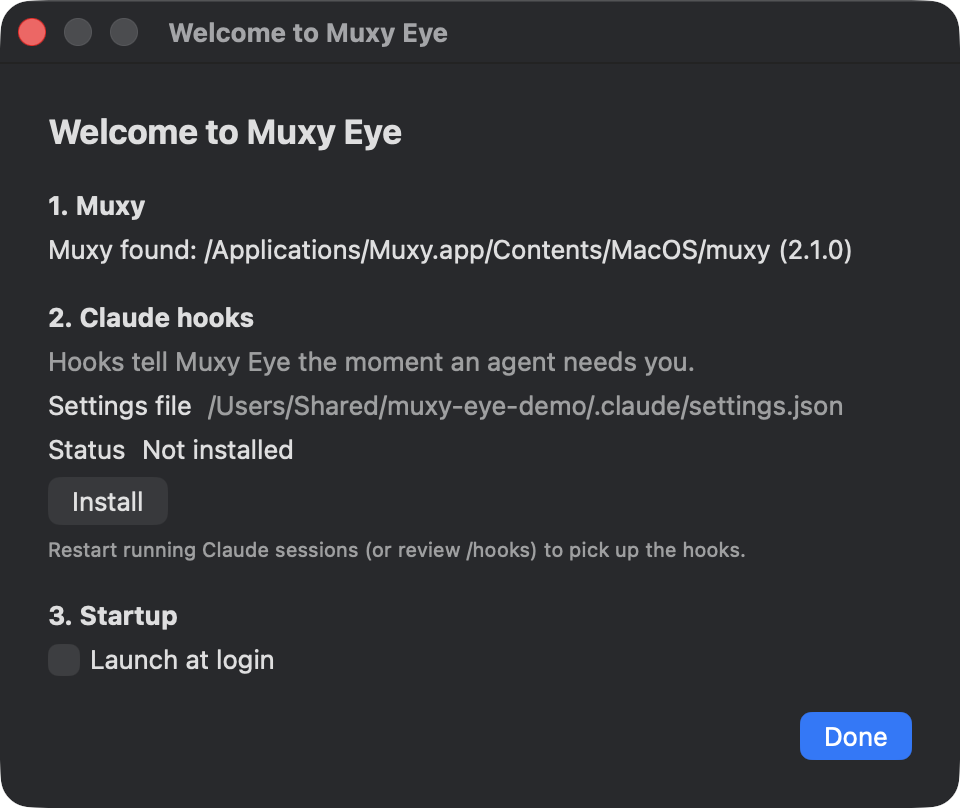
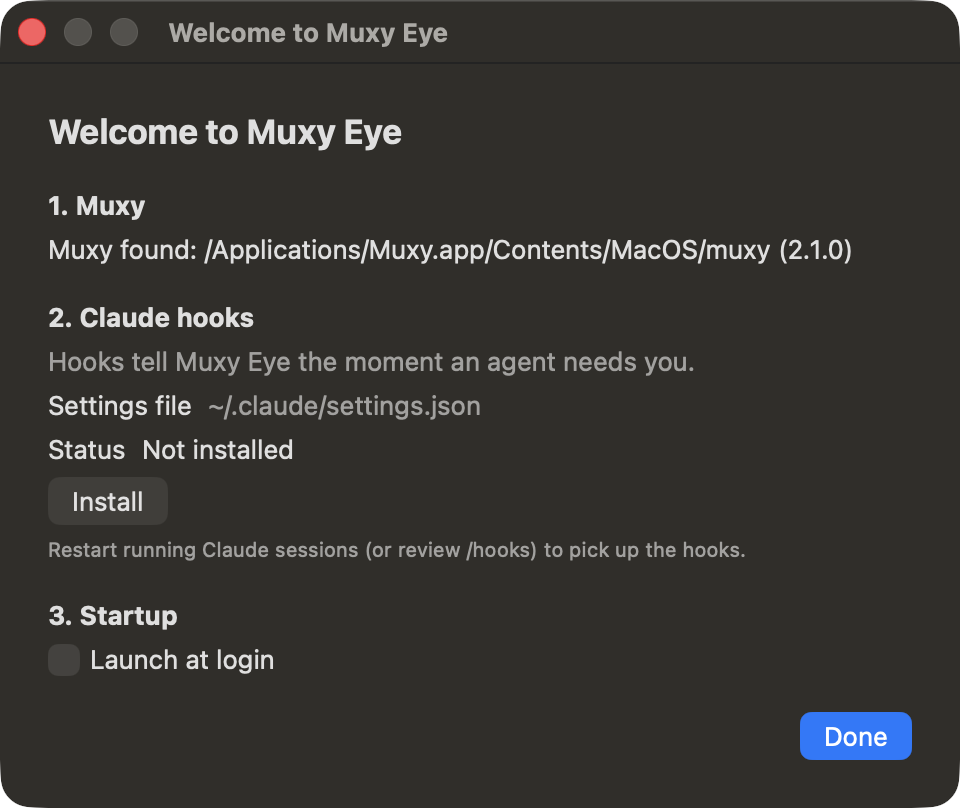
Add a getting started tutorial and fresh screenshots to the README

Changed region(s): [[0.2188, 0.495, 0.875, 0.526]]

diff --git a/README.md b/README.md
@@ -6,7 +6,63 @@ Muxy Eye is a small macOS app that sits at the top center of your screen, styled
   <img src="docs/images/panel-approval.png" width="640" alt="The expanded Muxy Eye panel: a session rail on the left and a Bash approval for npm test on the right, with the numbered options Claude offers">
 </p>
 
-<sub>The screenshots on this page come from a demo setup: sample projects, a separate Muxy profile, and a demo Claude settings file.</sub>
+<sub>The screenshots on this page come from a demo setup with sample projects.</sub>
+
+## Getting started
+
+This walks you through building Muxy Eye, setting it up, and answering your first prompt from it. It takes about five minutes.
+
+### 1. Check what you need
+
+- macOS 14 Sonoma or later.
+- [Muxy](https://github.com/muxy-app/muxy) 2.x.
+- Claude Code, running inside Muxy terminals.
+- Xcode 26, or a Swift 6.2 toolchain or later, to build the app.
+
+### 2. Build and start the app
+
+```sh
+git clone https://github.com/Vybo/muxy-eye.git
+cd muxy-eye
+scripts/build-app.sh release
+open "build/Muxy Eye.app"
+```
+
+The script prints the path of the app it built. You can move `Muxy Eye.app` to `/Applications` first if you like; nothing depends on where it is.
+
+### 3. Go through the setup window
+
+On first launch a short setup window opens (see [Setup](#setup) for every detail):
+
+1. Check that **Muxy** shows where the `muxy` CLI is, and its version. If it says it can't find Muxy, set the path later in Settings.
+2. Press **Install** next to **Claude hooks**. This adds Muxy Eye's hooks to Claude Code's settings, so the eye can show what Claude is asking. A backup of your settings file is saved next to it first.
+3. Turn on **Launch at login** if you want the eye every time you log in.
+4. Press **Done**.
+
+Claude sessions that were already running pick up the hooks after a restart, or after you open `/hooks` in them once. New sessions have them right away.
+
+### 4. Answer your first prompt
+
+1. In Muxy, start Claude Code in any project and ask it to do something that needs your approval, for example: *run `ls` with the Bash tool*.
+2. Switch to any other app, the way you would while Claude works. Within about a second, the eye at the top of the screen turns into an orange ring.
+3. Click the eye. The panel opens: the session's row on the left says `approval`, and on the right are the command and Claude's numbered options.
+4. Click **Yes**, or press **1**. Muxy Eye checks that the terminal still shows the same prompt and types the answer into it. Once nothing else is waiting, the panel closes by itself.
+
+Questions work the same way: pick an option, or type your own answer. When Claude finishes a turn, the panel shows its last message; reply from there, or press **Dismiss**.
+
+The terminal keeps working as usual. Answer wherever is closer; whichever place answers first wins, and the other one notices.
+
+### 5. Make it yours
+
+- **Move the eye:** drag it anywhere on the screen. **Resize it:** scroll over it. **Reset:** right-click it (or use the panel's **⋯** button) and choose **Reset Position and Size**.
+- **Pick where the panel opens:** Settings → **Panel opens**: below, above, left or right of the eye.
+- **Let it open by itself:** Settings → **Expand automatically when an agent needs you**. It never takes the keyboard, so typing elsewhere is safe.
+- **Keep it on one display:** Settings → **Display**.
+- **Need quiet?** Right-click the eye → **Hide for 1 Hour**.
+
+<p align="center">
+  <img src="docs/images/eye-moved.png" width="717" alt="A moved, enlarged eye with a count of 2, and the panel open to its right, a few points away">
+</p>
 
 ## The eye
 
@@ -83,7 +139,7 @@ The options are shown only while the terminal shows that same prompt. If the pro
 When Claude asks a question (its `AskUserQuestion` tool), the panel shows the question with its options and their descriptions.
 
 <p align="center">
-  <img src="docs/images/panel-question.png" width="640" alt="A single-select question in the panel: three options with descriptions and a Type something else field">
+  <img src="docs/images/panel-question.png" width="640" alt="A single-select question in the panel, Which database should the new service use?, with three options with descriptions and a Type something else field">
 </p>
 
 - **Single-select:** pick an option, or type your own answer in **Type something else…**.
@@ -92,10 +148,12 @@ When Claude asks a question (its `AskUserQuestion` tool), the panel shows the qu
 
 ### Finished turns
 
-When Claude finishes a turn, the session waits until you have seen the result. The panel shows Claude's last message. Reply in **Reply to Claude…**, or press **Dismiss** to clear it.
+When Claude finishes a turn, the session waits until you have seen the result. The panel shows Claude's last message with its formatting: headings, bold and italic text, inline code and code blocks, lists and links. Only `http` and `https` links open, in your browser. Reply in **Reply to Claude…**, or press **Dismiss** to clear it.
+
+Questions, their options and an approval's description show bold, italic and inline code too. Commands and file paths are shown exactly as Claude sent them. A long prompt that doesn't fit in the panel scrolls.
 
 <p align="center">
-  <img src="docs/images/panel-finished.png" width="640" alt="A finished turn in the panel: Claude's last message, a Reply to Claude field with Send, and Dismiss">
+  <img src="docs/images/panel-finished.png" width="640" alt="A finished turn in the panel: Claude's last message with a heading, bold text, inline code, a list and a link, then a Reply to Claude field with Send, and Dismiss">
 </p>
 
 A finished turn also clears when you look at that pane in Muxy, or when you send Claude a new prompt from the terminal.
@@ -200,12 +258,16 @@ The helper does nothing for Claude sessions outside Muxy. It never prints anythi
 ## Settings
 
 <p align="center">
-  <img src="docs/images/settings.png" width="480" alt="The Settings window: auto-expand, display, launch at login, the Claude hooks status with Remove, and the Muxy CLI path and profile folder. The Panel opens row, under Display, came later and isn't in this picture">
+  <img src="docs/images/settings.png" width="480" alt="The Settings window: auto-expand, display, panel side, launch at login, the Claude hooks status with Remove, and the Muxy CLI path and profile folder">
 </p>
 
 - **Expand automatically when an agent needs you:** see [Auto-expand](#auto-expand).
 - **Display:** follow the focused app, or pin the eye to one display.
-- **Panel opens:** below the eye (the default), above it, or to its left or right. If the panel has no room on that side, it opens on the opposite side, and it is always kept fully on the screen, clear of the Dock, and clear of the menu bar and the notch unless it hangs from the top of the screen. Below an eye in the menu bar (at its default spot, or moved or resized there), the panel hangs from the top of the screen as before, square on top and, on a notch display, with its content below the notch; above opens it there too, since there is no room above such an eye. Everywhere else the panel opens beside the eye, a few points from it and its count: it grows out of the eye and pulls back into it, and the eye stays visible, with its line and count, while the panel opens, is open and closes. Clicking the eye closes the panel, and clicks in the room between the two go to whatever is below. Below or above, when neither side has room for the whole panel, it opens on the roomier side, only as tall as the room there (its content scrolls), down to 160 points; only with less room than that is it moved over the eye. When a panel does cover a moved eye, also one hanging from the top, the eye's line and count come back as soon as the panel starts pulling back into it, so the eye never disappears while the panel closes.
+- **Panel opens:** below the eye (the default), above it, or to its left or right.
+  - If the panel has no room on that side, it opens on the opposite side. It is always kept fully on the screen and clear of the Dock, and also clear of the menu bar and the notch, unless it hangs from the top of the screen.
+  - Below an eye in the menu bar (at its default spot, or moved or resized there), the panel hangs from the top of the screen as before: square on top and, on a notch display, with its content below the notch. "Above" opens it there too, since there is no room above such an eye.
+  - Everywhere else the panel opens beside the eye, a few points from it and its count. It grows out of the eye and pulls back into it, and the eye stays visible while the panel opens, is open and closes. Clicking the eye closes the panel, and clicks in the room between the two go to whatever is below.
+  - Below or above, when neither side has room for the whole panel, it opens on the roomier side, only as tall as the room there, down to 160 points, and its prompt scrolls. Only with less room than that is it moved over the eye. When the panel does cover a moved eye, the eye's line and count come back as soon as the panel starts pulling back into it.
 - **Launch at login:** if macOS refuses, the reason appears under the toggle.
 - **Claude hooks:** the settings file in use, the hooks' status, and Install, Update or Remove.
 - **Muxy CLI path:** set it if Muxy Eye can't find `muxy` by itself.
@@ -229,6 +291,7 @@ Path changes apply when you press Return or leave the field. You can also open S
 - **A draft at Claude's prompt can look empty.** Suppose you typed a draft at Claude's prompt and moved the cursor back to the start of the line. Muxy Eye can't tell that apart from Claude's grey prompt suggestion, so a reply from the eye would be typed in front of your draft.
 - **Prompt content is for Claude Code only.** Other agents in Muxy show their state, but not their prompts.
 - **Only sessions in Muxy terminals on this Mac are covered.** Claude sessions outside Muxy, and remote Muxy servers (`muxy --host`), are not covered.
+- **A question that contains "Ready to submit your answers?"** is taken for Claude's review screen, so the eye shows it without options. Answer it in the terminal.
 - **Some prompt layouts can't be read.** If a Claude Code update changes how prompts look in the terminal, Muxy Eye can't read the options any more. Those prompts then show only Open in Muxy, rather than risk a wrong answer.
 
 ## Uninstall
